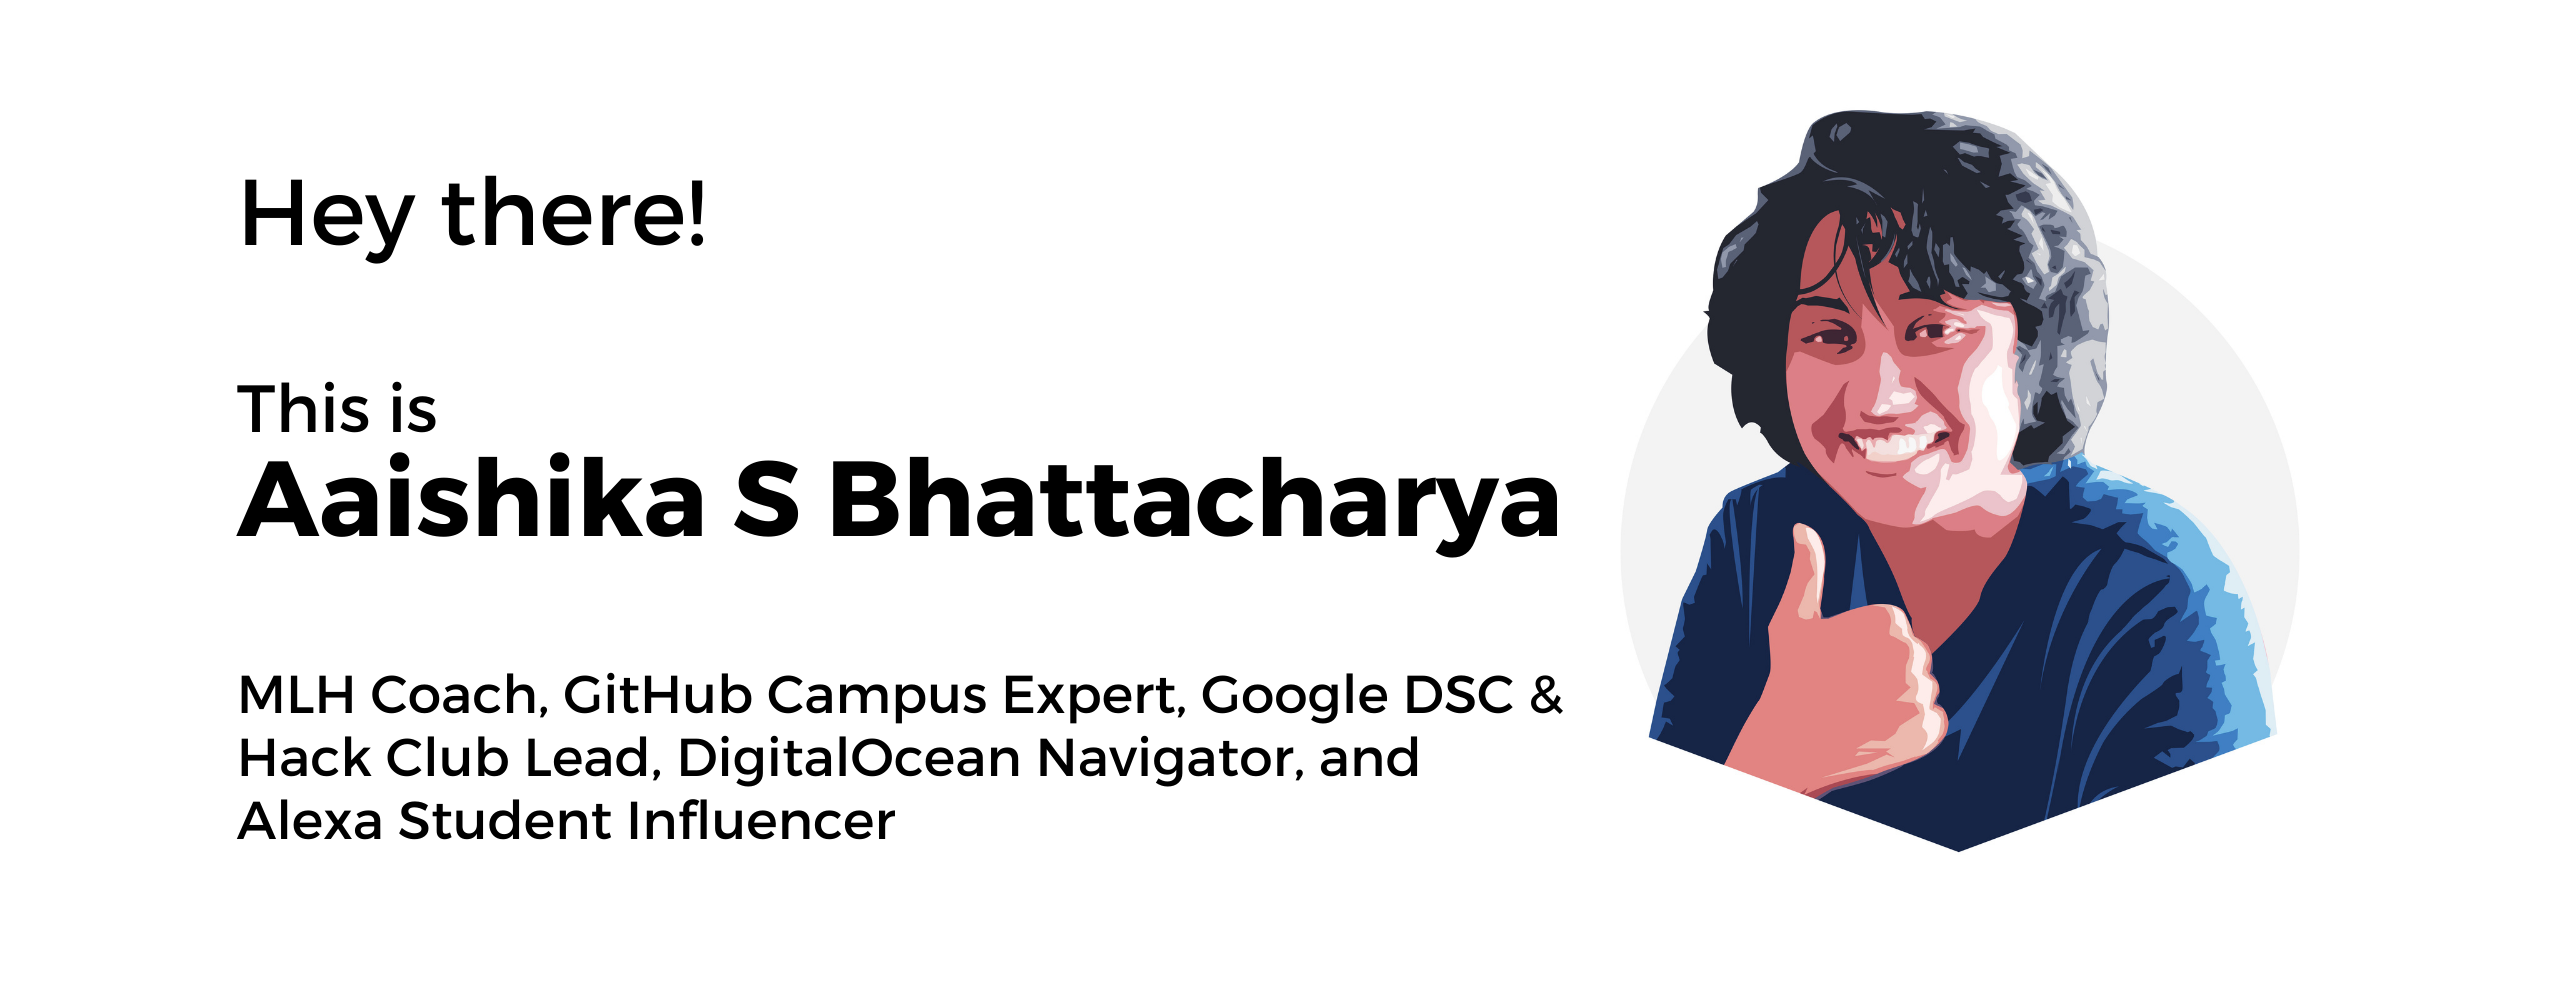
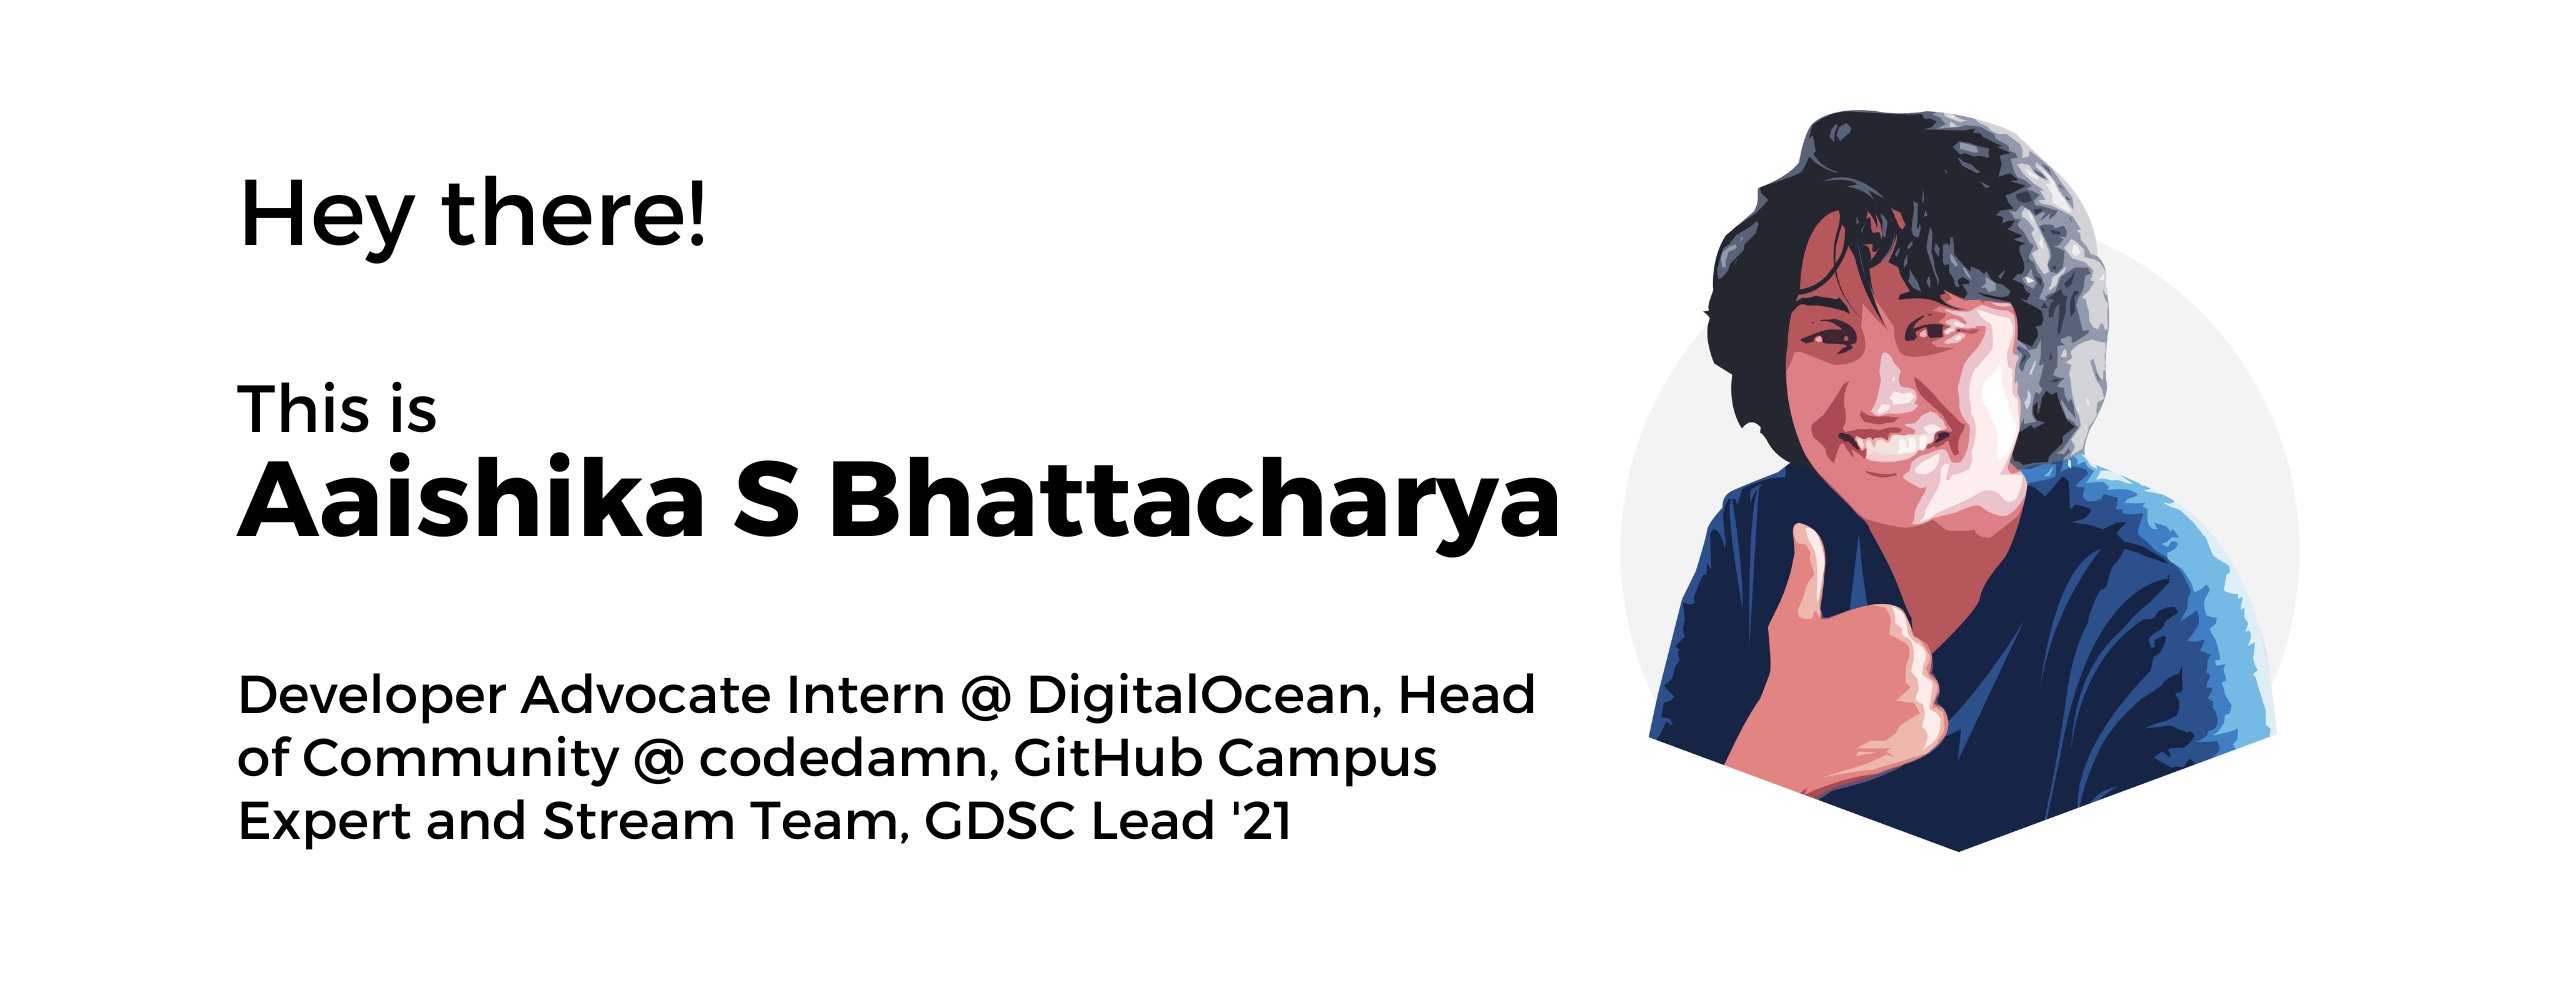
👔 Update README.md

Changed region(s): [[0.0938, 0.651, 0.625, 0.837]]

diff --git a/README.md b/README.md
@@ -1,8 +1,8 @@
 ![Header](Banner.png "Header Image")
-# Thanks for stopping by
+# Thanks for stopping by 👋
 ![Profile Views](https://komarev.com/ghpvc/?username=aaishikasb&label=PROFILE+VIEWS)
 
-### Find me in SRM Institute of Science and Technology, Kattankulathur, building randomest of things and scaling communities! 💪
+### Find me building randomest of things here and scaling communities! 💪
 <br>
 
 ![GIF](https://www.learnupon.com/wp-content/uploads/@2x-Blog-Technical-Skills-animation.gif)
@@ -12,18 +12,22 @@
 
 <img alt="Polywork" src="https://img.shields.io/badge/Polywork-aaishika-%23543DE0.svg?&style=for-the-badge&logo=polywork&logoColor=white"/><br>
 
-- DevRel/Ops Intern at [Aviyel](https://www.aviyel.com)
-- Coach at [Major League Hacking](https://www.mlh.io)
+- Developer Advocate Intern at [DigitalOcean](https://www.digitalocean.com)
+- Head of Community at [codedamn](https://www.codedamn.com)
 - Mentor students and help budding developers be better
 - Active [GitHub Campus Expert](https://education.github.com/experts), [DigitalOcean Navigator](https://www.digitalocean.com/community/pages/digitalocean-navigators) and [Alexa Student Influencer](https://developer.amazon.com/en-IN/alexa/alexa-student-influencer)
-- Participate in hackathons avidly
+- GDSC Lead '21 and Hack Club Lead
+- Ambassador at [Auth0](https://auth0.com/) and [Prisma](https://www.prisma.io/)
+- Ex-Ops Intern at [Aviyel](https://www.aviyel.com)
+- Ex-Coach at [Major League Hacking](https://www.mlh.io)
+- Participate in hackathons avidly - [Devpost](https://devpost.com/aaishika)
 - Write blogs on [Medium](https://www.medium.com/@Aaishika)
 - Upload byte-sized videos on my [YouTube Channel](https://www.youtube.com/c/AaishikaSBhattacharya)
 
 ![Views](https://img.shields.io/youtube/channel/views/UCIWbBxuwFhKuiikJrrqRCUQ?style=social) ![Subs](https://img.shields.io/youtube/channel/subscribers/UCIWbBxuwFhKuiikJrrqRCUQ?style=social)
 
 # Let's Talk Numbers and Stats
-I am into Web & App Development, Cloud Computing, Internet of Things, and Development for Voice. I am also into Community Building & Management as well as Developer Relations.
+I am into Web & App Development, Cloud Computing, Internet of Things, and Development for Voice. I am also into Community Building & Management as well as Developer Advocacy.
 
 ![Aaishika's GitHub stats](https://github-readme-stats.vercel.app/api?username=aaishikasb&theme=tokyonight&show_icons=true)
 
